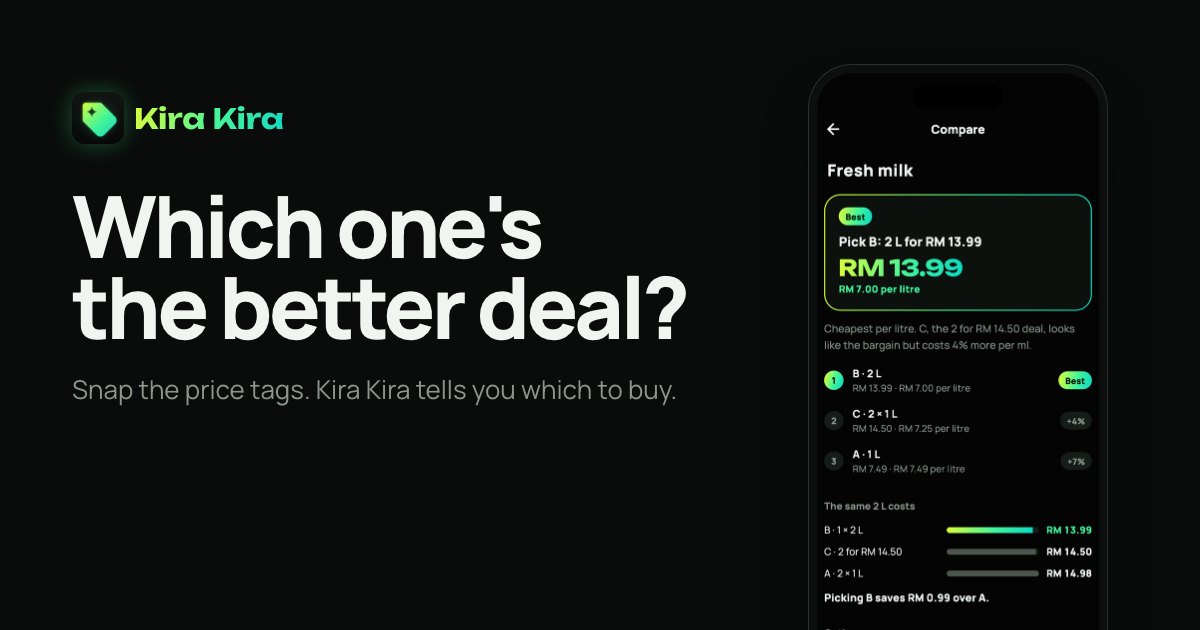
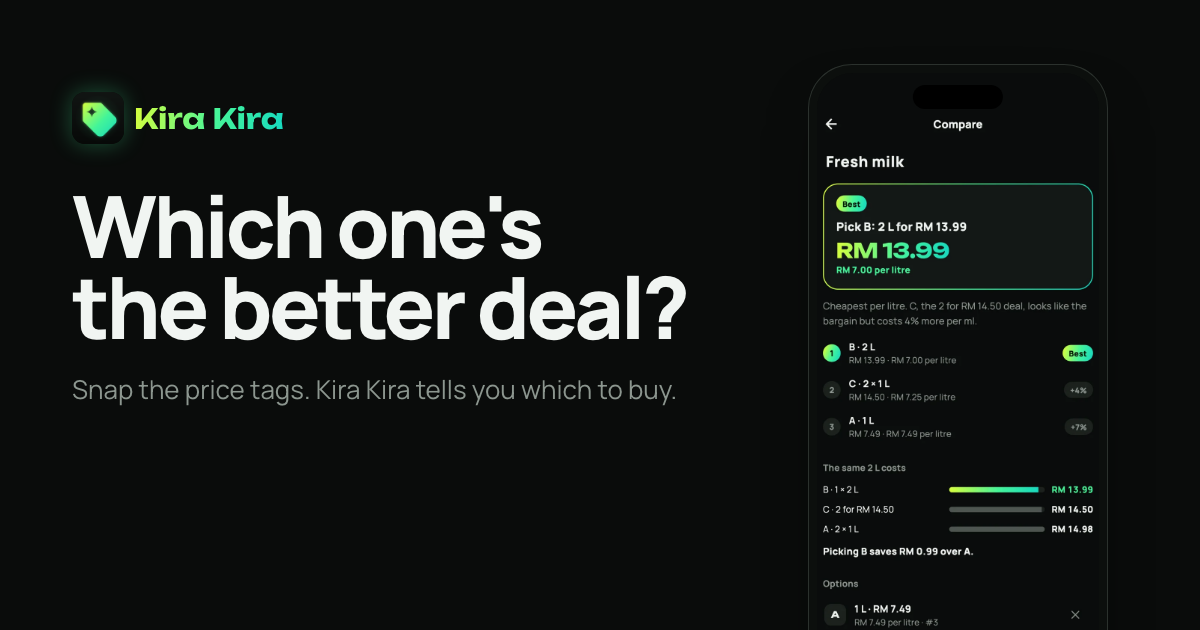
Sharper, lighter screens: WebP from the app's own 6.5-inch shots
- The screens now come from `make shots` at 1284 × 2778 (an iPhone 12 Pro
  Max, the App Store's 6.5-inch size), as WebP: 780 px wide for the phone
  frames, full size for the scanner the top section shows larger. 1.5 MB
  of PNG becomes about 310 KB.
- The phone frames take the new shape; the link preview is redrawn.
- A verdict keeps its price on one line.

diff --git a/index.html b/index.html
@@ -81,7 +81,7 @@
           <div class="words" aria-label="Tag words it understands">
             <span>2 untuk RM65</span><span>Beli 2 Percuma 1</span><span>Item kedua 50%</span><span>Harga Ahli</span><span>Jimat</span><span>Harga asal</span><span>RM12.90/kg</span><span>6 x 250ml</span>
           </div>
-          <div class="scan-crop"><img src="shots/dark/scan.png" alt="Kira Kira's scanner reading a fresh milk tag: RM 7.49, 1 L" loading="lazy"></div>
+          <div class="scan-crop"><img src="shots/dark/scan.webp" alt="Kira Kira's scanner reading a fresh milk tag: RM 7.49, 1 L" loading="lazy"></div>
         </article>
 
         <article class="tile t-bars">
@@ -141,9 +141,9 @@
             <p>The whole app, and every verdict, in three.</p>
           </div>
           <dl class="langs demo-ui">
-            <div><dt>English</dt><dd>Pick B: 2 L for RM 13.99</dd></div>
-            <div><dt>Melayu</dt><dd>Pilih B: 2 L pada RM 13.99</dd></div>
-            <div><dt>中文</dt><dd>选 B：2 L，RM 13.99</dd></div>
+            <div><dt>English</dt><dd>Pick B: 2&nbsp;L for RM&nbsp;13.99</dd></div>
+            <div><dt>Melayu</dt><dd>Pilih B: 2&nbsp;L pada RM&nbsp;13.99</dd></div>
+            <div><dt>中文</dt><dd>选 B：2&nbsp;L，RM&nbsp;13.99</dd></div>
           </dl>
         </article>
       </div>
@@ -164,8 +164,8 @@
       <div class="steps">
         <div class="step">
           <div class="phone camera"><div class="screen">
-            <img class="shot-dark" src="shots/dark/scan.png" alt="The scanner reading a tag: RM 7.49 for 1 L" loading="lazy">
-            <img class="shot-light" src="shots/dark/scan.png" alt="" loading="lazy">
+            <img class="shot-dark" src="shots/dark/scan.webp" alt="The scanner reading a tag: RM 7.49 for 1 L" loading="lazy">
+            <img class="shot-light" src="shots/dark/scan.webp" alt="" loading="lazy">
             <div class="island"></div><div class="status"><span>9:41</span><svg viewBox="0 0 42 12" aria-hidden="true"><rect x="0" y="7" width="3" height="5" rx="1"/><rect x="5" y="5" width="3" height="7" rx="1"/><rect x="10" y="2.5" width="3" height="9.5" rx="1"/><rect x="15" y="0" width="3" height="12" rx="1"/><rect x="24" y="1" width="16" height="10" rx="3" fill="none" stroke="currentColor" stroke-width="1.4"/><rect x="26" y="3" width="11" height="6" rx="1.5"/></svg></div>
           </div></div>
           <span class="num">1</span>
@@ -173,8 +173,8 @@
         </div>
         <div class="step">
           <div class="phone"><div class="screen">
-            <img class="shot-dark" src="shots/dark/result.png" alt="The result: pick B, 2 L for RM 13.99, RM 7.00 per litre" loading="lazy">
-            <img class="shot-light" src="shots/light/result.png" alt="" loading="lazy">
+            <img class="shot-dark" src="shots/dark/result.webp" alt="The result: pick B, 2 L for RM 13.99, RM 7.00 per litre" loading="lazy">
+            <img class="shot-light" src="shots/light/result.webp" alt="" loading="lazy">
             <div class="island"></div><div class="status"><span>9:41</span><svg viewBox="0 0 42 12" aria-hidden="true"><rect x="0" y="7" width="3" height="5" rx="1"/><rect x="5" y="5" width="3" height="7" rx="1"/><rect x="10" y="2.5" width="3" height="9.5" rx="1"/><rect x="15" y="0" width="3" height="12" rx="1"/><rect x="24" y="1" width="16" height="10" rx="3" fill="none" stroke="currentColor" stroke-width="1.4"/><rect x="26" y="3" width="11" height="6" rx="1.5"/></svg></div>
           </div></div>
           <span class="num">2</span>
@@ -182,8 +182,8 @@
         </div>
         <div class="step">
           <div class="phone"><div class="screen">
-            <img class="shot-dark" src="shots/dark/online.png" alt="An iPhone's prices on Shopee and Lazada, three sellers each" loading="lazy">
-            <img class="shot-light" src="shots/light/online.png" alt="" loading="lazy">
+            <img class="shot-dark" src="shots/dark/online.webp" alt="An iPhone's prices on Shopee and Lazada, three sellers each" loading="lazy">
+            <img class="shot-light" src="shots/light/online.webp" alt="" loading="lazy">
             <div class="island"></div><div class="status"><span>9:41</span><svg viewBox="0 0 42 12" aria-hidden="true"><rect x="0" y="7" width="3" height="5" rx="1"/><rect x="5" y="5" width="3" height="7" rx="1"/><rect x="10" y="2.5" width="3" height="9.5" rx="1"/><rect x="15" y="0" width="3" height="12" rx="1"/><rect x="24" y="1" width="16" height="10" rx="3" fill="none" stroke="currentColor" stroke-width="1.4"/><rect x="26" y="3" width="11" height="6" rx="1.5"/></svg></div>
           </div></div>
           <span class="num">3</span>
@@ -197,13 +197,13 @@
       <div class="score">
         <div class="phones">
           <div class="phone"><div class="screen">
-            <img class="shot-dark" src="shots/dark/home.png" alt="Kira Kira's home: saved this month RM 0.51" loading="lazy">
-            <img class="shot-light" src="shots/light/home.png" alt="" loading="lazy">
+            <img class="shot-dark" src="shots/dark/home.webp" alt="Kira Kira's home: saved this month RM 0.51" loading="lazy">
+            <img class="shot-light" src="shots/light/home.webp" alt="" loading="lazy">
             <div class="island"></div><div class="status"><span>9:41</span><svg viewBox="0 0 42 12" aria-hidden="true"><rect x="0" y="7" width="3" height="5" rx="1"/><rect x="5" y="5" width="3" height="7" rx="1"/><rect x="10" y="2.5" width="3" height="9.5" rx="1"/><rect x="15" y="0" width="3" height="12" rx="1"/><rect x="24" y="1" width="16" height="10" rx="3" fill="none" stroke="currentColor" stroke-width="1.4"/><rect x="26" y="3" width="11" height="6" rx="1.5"/></svg></div>
           </div></div>
           <div class="phone"><div class="screen">
-            <img class="shot-dark" src="shots/dark/saved.png" alt="Saved comparisons" loading="lazy">
-            <img class="shot-light" src="shots/light/saved.png" alt="" loading="lazy">
+            <img class="shot-dark" src="shots/dark/saved.webp" alt="Saved comparisons" loading="lazy">
+            <img class="shot-light" src="shots/light/saved.webp" alt="" loading="lazy">
             <div class="island"></div><div class="status"><span>9:41</span><svg viewBox="0 0 42 12" aria-hidden="true"><rect x="0" y="7" width="3" height="5" rx="1"/><rect x="5" y="5" width="3" height="7" rx="1"/><rect x="10" y="2.5" width="3" height="9.5" rx="1"/><rect x="15" y="0" width="3" height="12" rx="1"/><rect x="24" y="1" width="16" height="10" rx="3" fill="none" stroke="currentColor" stroke-width="1.4"/><rect x="26" y="3" width="11" height="6" rx="1.5"/></svg></div>
           </div></div>
         </div>

diff --git a/style.css b/style.css
@@ -408,7 +408,7 @@ h3 { margin: 0 0 8px; font-size: 22px; font-weight: 800; letter-spacing: -0.01em
 .phone {
   position: relative;
   width: min(100%, 272px);
-  aspect-ratio: 1170 / 2532;
+  aspect-ratio: 1284 / 2778;
   padding: 9px;
   border-radius: 44px;
   background: #0c0f0d;

diff --git a/README.md b/README.md
@@ -4,9 +4,10 @@ https://xuaan33.github.io/kirakira-site/ — what the app does, with a shelf you
 its privacy policy (`privacy.html`, the URL both app stores list). Plain HTML, CSS and one
 small script (`shelf.js`), served by GitHub Pages from `main`.
 
-- **Screens** (`shots/`) are drawn by the app itself, in both themes: in the app repo,
-  `flutter test test_shots/shots_test.dart --flavor prod` writes them to `build/shots/`.
-  Online prices and sellers on them are examples, and the page says so.
+- **Screens** (`shots/`) are drawn by the app itself, in both themes: `make shots` in the app
+  repo writes them to `build/shots/`, then `cwebp -q 85 -resize 780 0` makes each phone
+  screen here (the scan screen at full size, as the top section shows it larger). Online
+  prices and sellers on them are examples, and the page says so.
 - **Fonts** are Manrope and Unbounded (SIL Open Font License 1.1, licences in `fonts/`),
   subset to Latin as WOFF2, so the pages load no one else's files.
 - **`og-image.png`** is the link preview, 1200 × 630.
